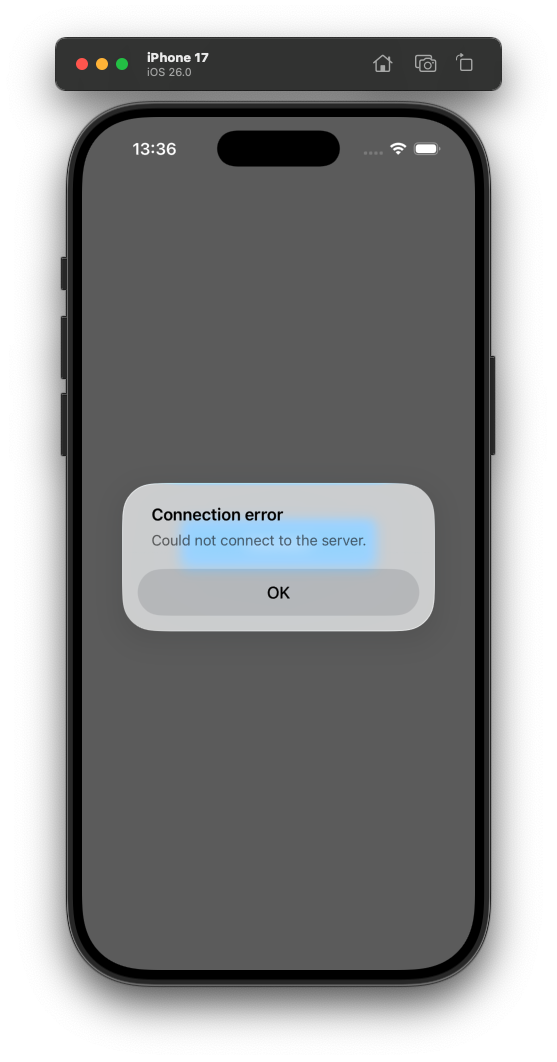
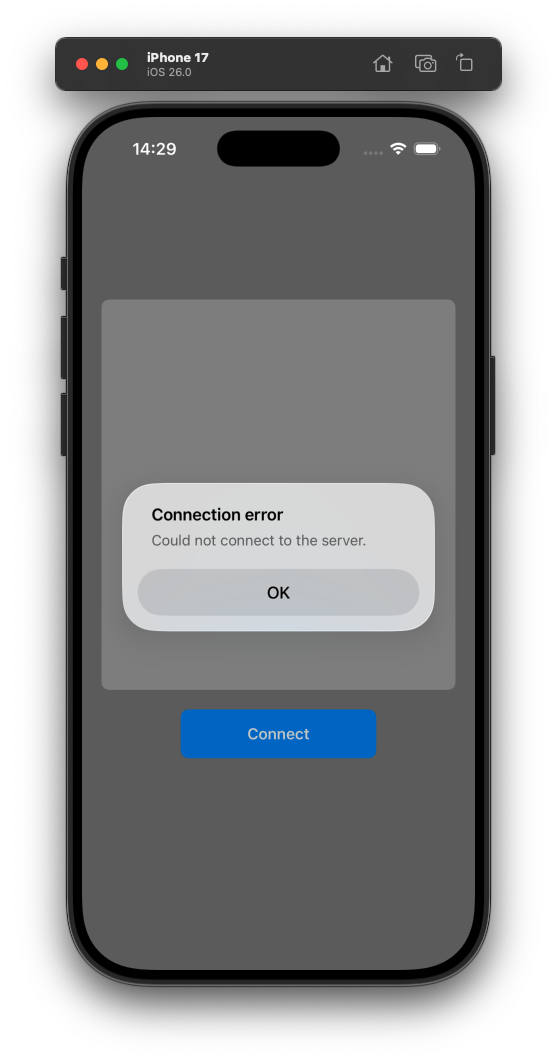
feat: display devices in ios-client
Previously, device data received from the server after
connection was not displayed to the user. This commit
adds a message receiving delegate that displays the
received device information as raw text.

This is an initial implementation, future work will
parse and format this data properly.

Changed region(s): [[0.1831, 0.2797, 0.8241, 0.7147], [0.2442, 0.1243, 0.3052, 0.1554]]

diff --git a/ios-client/ios-client/ViewController.m b/ios-client/ios-client/ViewController.m
@@ -4,6 +4,7 @@
 @interface ViewController () <WebSocketClientDelegate>
 @property(nonatomic, strong) WebSocketClient *webSocketClient;
 @property(nonatomic, strong) UIButton *connectButton;
+@property(nonatomic, strong) UITextView *contentTextView;
 @property(nonatomic, assign) BOOL isConnected;
 @end
 
@@ -16,6 +17,16 @@
   self.webSocketClient = [[WebSocketClient alloc] init];
   self.webSocketClient.delegate = self;
   self.isConnected = NO;
+
+  self.contentTextView = [[UITextView alloc] init];
+  self.contentTextView.font = [UIFont systemFontOfSize:14];
+  self.contentTextView.editable = NO;
+  self.contentTextView.backgroundColor = [UIColor lightGrayColor];
+  self.contentTextView.layer.cornerRadius = 8;
+  self.contentTextView.layer.borderWidth = 1.0;
+  self.contentTextView.layer.borderColor = [UIColor lightGrayColor].CGColor;
+  self.contentTextView.translatesAutoresizingMaskIntoConstraints = NO;
+  [self.view addSubview:self.contentTextView];
 
   self.connectButton = [UIButton buttonWithType:UIButtonTypeSystem];
   [self.connectButton setTitle:@"Connect" forState:UIControlStateNormal];
@@ -32,10 +43,25 @@
   [self.view addSubview:self.connectButton];
 
   [NSLayoutConstraint activateConstraints:@[
+    [self.contentTextView.centerXAnchor
+        constraintEqualToAnchor:self.view.centerXAnchor],
+    [self.contentTextView.centerYAnchor
+        constraintEqualToAnchor:self.view.centerYAnchor
+                       constant:-50],
+    [self.contentTextView.leadingAnchor
+        constraintEqualToAnchor:self.view.leadingAnchor
+                       constant:20],
+    [self.contentTextView.trailingAnchor
+        constraintEqualToAnchor:self.view.trailingAnchor
+                       constant:-20],
+    [self.contentTextView.heightAnchor constraintEqualToConstant:400],
+
+    // Button below the text view.
+    [self.connectButton.topAnchor
+        constraintEqualToAnchor:self.contentTextView.bottomAnchor
+                       constant:20],
     [self.connectButton.centerXAnchor
         constraintEqualToAnchor:self.view.centerXAnchor],
-    [self.connectButton.centerYAnchor
-        constraintEqualToAnchor:self.view.centerYAnchor],
     [self.connectButton.widthAnchor constraintEqualToConstant:200],
     [self.connectButton.heightAnchor constraintEqualToConstant:50]
   ]];
@@ -79,6 +105,10 @@
 
   [alert addAction:okAction];
   [self presentViewController:alert animated:YES completion:nil];
+}
+
+- (void)webSocketDidReceiveMessage:(NSString *)message {
+  self.contentTextView.text = message;
 }
 
 @end

diff --git a/ios-client/ios-client/WebSocketClient.m b/ios-client/ios-client/WebSocketClient.m
@@ -84,6 +84,11 @@ NS_ASSUME_NONNULL_BEGIN
         }
         NSLog(@"Received: %@", message.string);
 
+        if ([weakSelf.delegate
+                respondsToSelector:@selector(webSocketDidReceiveMessage:)]) {
+          [weakSelf.delegate webSocketDidReceiveMessage:message.string];
+        }
+
         // self is captured here.
         [weakSelf receiveMessage];
       }];

diff --git a/ios-client/ios-client/WebSocketClient.h b/ios-client/ios-client/WebSocketClient.h
@@ -5,6 +5,7 @@ NS_ASSUME_NONNULL_BEGIN
 @protocol WebSocketClientDelegate <NSObject>
 
 - (void)webSocketDidFailWithError:(NSError *)error;
+- (void)webSocketDidReceiveMessage:(NSString *)message;
 
 @end
 

diff --git a/README.md b/README.md
@@ -55,9 +55,9 @@ $ websocat ws://127.0.0.1:8080/data
 ## Preview (iOS)
 
 <p align="center">
-  <img src="images/main-view-connect.png" width="400" />
+  <img src="images/main-view-connect-empty.png" width="400" />
   <img src="images/main-view-connection-error.png" width="400" />
-  <img src="images/main-view-disconnect.png" width="400" />
+  <img src="images/main-view-connect-devices.png" width="400" />
 </p>
 
 ## Command cheatsheet
